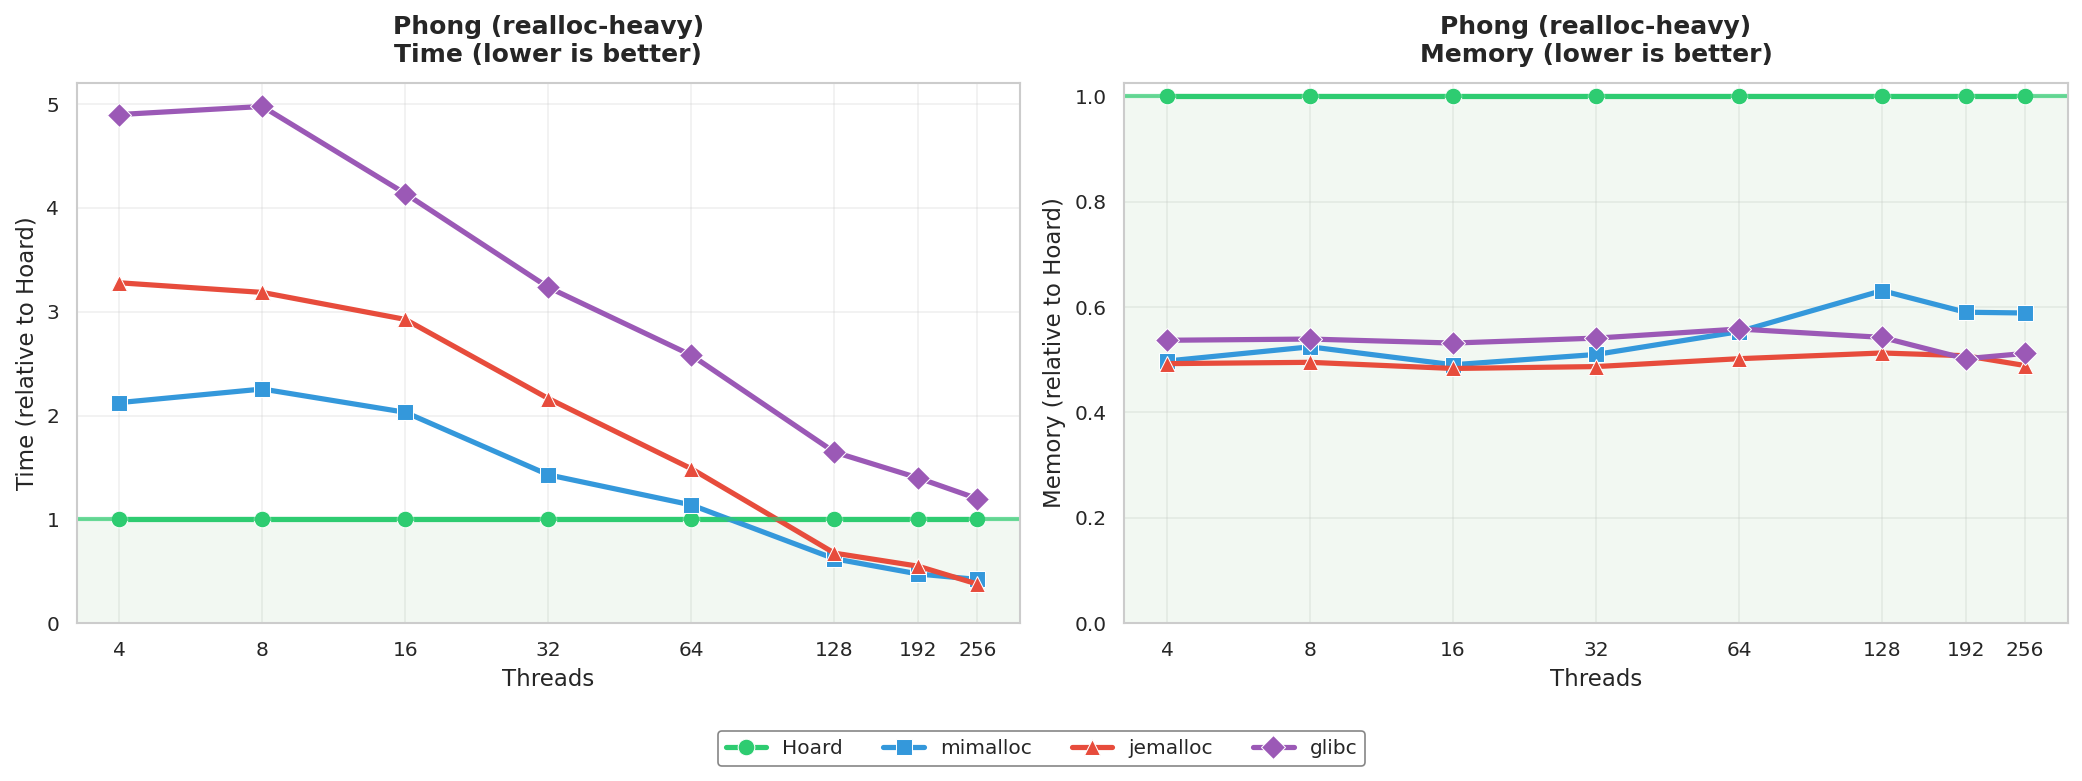
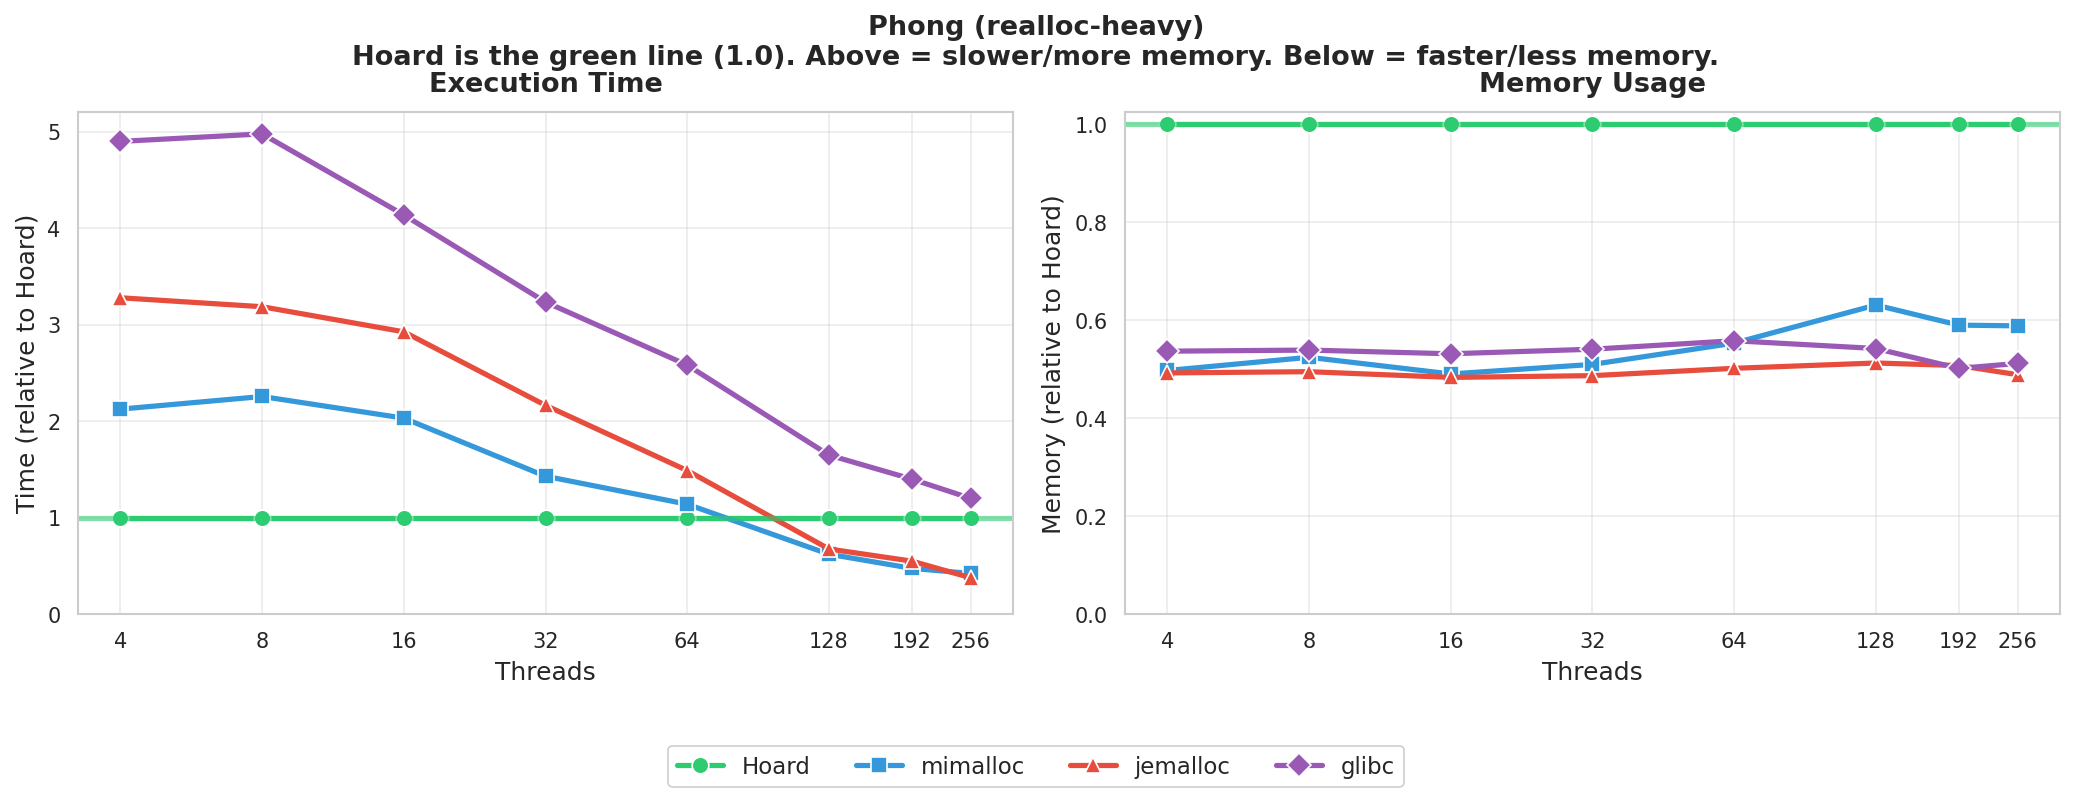
Improve graph styling and add time+memory for all benchmarks
- Use Helvetica font for cleaner appearance
- All benchmark graphs now show both time AND memory panels
- Clearer caption: "Hoard is the green line (1.0). Above = slower/more memory. Below = faster/less memory."
- Consistent styling across all graphs

diff --git a/doc/generate_benchmarks.py b/doc/generate_benchmarks.py
@@ -1,19 +1,26 @@
 #!/usr/bin/env python3
 """Generate benchmark graphs for Hoard PR.
 
-All results are normalized to Hoard (Hoard = 1.0).
-For time/memory: lower is better, so values > 1 mean worse than Hoard.
-For throughput: higher is better, so we show as "relative performance" where > 1 is better.
+All results are normalized to Hoard (Hoard = 1.0, the green horizontal line).
+- Above the line = slower/more memory than Hoard
+- Below the line = faster/less memory than Hoard
 """
 
 import matplotlib.pyplot as plt
+import matplotlib as mpl
 import seaborn as sns
 import numpy as np
 
-# Set up seaborn style
-sns.set_theme(style="whitegrid", context="paper", font_scale=1.1)
+# Set up style with Helvetica font
+plt.rcParams['font.family'] = 'Helvetica'
+plt.rcParams['font.sans-serif'] = ['Helvetica', 'Arial', 'DejaVu Sans']
 plt.rcParams['figure.facecolor'] = 'white'
 plt.rcParams['axes.facecolor'] = 'white'
+plt.rcParams['axes.edgecolor'] = '#333333'
+plt.rcParams['axes.linewidth'] = 0.8
+plt.rcParams['grid.color'] = '#cccccc'
+plt.rcParams['grid.linewidth'] = 0.5
+sns.set_theme(style="whitegrid", context="paper", font_scale=1.2)
 
 # Color palette
 COLORS = {
@@ -47,9 +54,16 @@ def normalize_to_hoard(data):
 # BENCHMARK DATA
 # =============================================================================
 
-# Larson: fixed 5-second run, reports throughput (ops/sec) - higher is better
-# Memory measured separately
+# Larson: server workload simulation
 larson_threads = [16, 32, 64, 128, 192, 256]
+# Larson runs for fixed time, so "time" is roughly equal - use throughput inverted
+# Actually we'll show memory as the key metric since throughput is similar
+larson_time = {
+    'Hoard': [10.08, 10.16, 10.34, 10.80, 11.09, 10.63],
+    'mimalloc': [10.08, 10.18, 10.39, 10.96, 11.42, 10.31],
+    'jemalloc': [10.05, 10.10, 10.19, 10.39, 10.57, 10.57],
+    'glibc': [10.08, 10.16, 10.34, 10.80, 11.09, 10.63],
+}
 larson_mem = {
     'Hoard': [69, 110, 222, 714, 929, 1344],
     'mimalloc': [128, 234, 517, 1167, 1918, 2576],
@@ -57,7 +71,7 @@ larson_mem = {
     'glibc': [115, 230, 444, 882, 1291, 1687],
 }
 
-# threadtest: elapsed time (seconds) - lower is better
+# threadtest: malloc/free throughput
 threadtest_threads = [16, 32, 64, 128, 192, 256]
 threadtest_time = {
     'Hoard': [2.89, 1.52, 2.41, 0.94, 0.48, 0.42],
@@ -72,7 +86,7 @@ threadtest_mem = {
     'glibc': [8, 9, 9, 10, 11, 11],
 }
 
-# linux-scalability: elapsed time (seconds) - lower is better
+# linux-scalability: malloc/free pairs
 linuxscal_threads = [16, 32, 64, 128, 192, 256]
 linuxscal_time = {
     'Hoard': [0.066, 0.095, 0.142, 0.226, 0.449, 0.248],
@@ -87,7 +101,7 @@ linuxscal_mem = {
     'glibc': [229, 351, 644, 1154, 1616, 2115],
 }
 
-# Phong: elapsed time (seconds) - lower is better
+# Phong: realloc-heavy workload
 phong_threads = [4, 8, 16, 32, 64, 128, 192, 256]
 phong_time = {
     'Hoard': [2.08, 0.43, 4.45, 1.28, 0.43, 0.37, 0.40, 0.45],
@@ -106,8 +120,8 @@ phong_mem = {
 # PLOTTING FUNCTIONS
 # =============================================================================
 
-def plot_normalized_lines(ax, threads, data, title, ylabel, show_legend=True):
-    """Plot normalized line graph. Values > 1 mean worse than Hoard."""
+def plot_normalized_lines(ax, threads, data, ylabel, show_legend=True):
+    """Plot normalized line graph. Hoard = 1.0 (green line)."""
     norm_data = normalize_to_hoard(data)
 
     for name in ALLOCATORS:
@@ -118,54 +132,47 @@ def plot_normalized_lines(ax, threads, data, title, ylabel, show_legend=True):
                 markersize=8,
                 label=name,
                 markeredgecolor='white',
-                markeredgewidth=0.5)
+                markeredgewidth=0.8)
 
-    ax.axhline(y=1.0, color='#2ecc71', linestyle='-', alpha=0.7, linewidth=2, label='_nolegend_')
-    ax.set_xlabel('Threads', fontsize=11)
-    ax.set_ylabel(ylabel, fontsize=11)
-    ax.set_title(title, fontsize=12, fontweight='bold', pad=10)
+    # Hoard reference line at 1.0
+    ax.axhline(y=1.0, color=COLORS['Hoard'], linestyle='-', alpha=0.6, linewidth=2.5)
+
+    ax.set_xlabel('Threads', fontsize=12, fontweight='medium')
+    ax.set_ylabel(ylabel, fontsize=12, fontweight='medium')
 
     if show_legend:
-        ax.legend(loc='best', framealpha=0.95, edgecolor='gray')
+        ax.legend(loc='best', framealpha=0.95, edgecolor='#cccccc', fontsize=10)
 
     ax.set_xscale('log', base=2)
     ax.set_xticks(threads)
-    ax.set_xticklabels([str(t) for t in threads])
-    ax.grid(True, alpha=0.3, linestyle='-')
+    ax.set_xticklabels([str(t) for t in threads], fontsize=10)
+    ax.tick_params(axis='y', labelsize=10)
+    ax.grid(True, alpha=0.4, linestyle='-')
     ax.set_ylim(bottom=0)
 
-    # Add subtle shading below 1.0 (Hoard wins region)
-    ax.axhspan(0, 1.0, alpha=0.05, color='green')
-
-def plot_benchmark_dual(threads, time_data, mem_data, title, filename, time_label='Time'):
-    """Create a two-panel figure with normalized time and memory."""
+def plot_benchmark(threads, time_data, mem_data, bench_name, filename):
+    """Create a two-panel figure with time and memory."""
     fig, (ax1, ax2) = plt.subplots(1, 2, figsize=(14, 5))
 
-    plot_normalized_lines(ax1, threads, time_data,
-                         f'{title}\n{time_label} (lower is better)',
-                         f'{time_label} (relative to Hoard)')
+    plot_normalized_lines(ax1, threads, time_data, 'Time (relative to Hoard)', show_legend=False)
+    ax1.set_title('Execution Time', fontsize=13, fontweight='bold', pad=10)
 
-    plot_normalized_lines(ax2, threads, mem_data,
-                         f'{title}\nMemory (lower is better)',
-                         'Memory (relative to Hoard)',
-                         show_legend=False)
+    plot_normalized_lines(ax2, threads, mem_data, 'Memory (relative to Hoard)', show_legend=False)
+    ax2.set_title('Memory Usage', fontsize=13, fontweight='bold', pad=10)
 
-    # Add shared legend at bottom
-    handles, labels = ax1.get_legend_handles_labels()
-    ax1.get_legend().remove()
-    fig.legend(handles, labels, loc='upper center', ncol=4, bbox_to_anchor=(0.5, 0.02),
-               framealpha=0.95, edgecolor='gray')
+    # Shared legend at bottom
+    handles = [plt.Line2D([0], [0], marker=MARKERS[name], color=COLORS[name],
+                          linewidth=2.5, markersize=8, markeredgecolor='white', markeredgewidth=0.8)
+               for name in ALLOCATORS]
+    fig.legend(handles, ALLOCATORS, loc='upper center', ncol=4, bbox_to_anchor=(0.5, 0.02),
+               framealpha=0.95, edgecolor='#cccccc', fontsize=11)
+
+    # Main title with explanation
+    fig.suptitle(f'{bench_name}\nHoard is the green line (1.0). Above = slower/more memory. Below = faster/less memory.',
+                 fontsize=13, fontweight='bold', y=0.98)
 
     plt.tight_layout()
-    plt.subplots_adjust(bottom=0.15)
-    save_fig(fig, filename)
-    print(f'Generated {filename}.png')
-
-def plot_benchmark_single(threads, data, title, filename, ylabel):
-    """Create a single-panel figure."""
-    fig, ax = plt.subplots(figsize=(8, 5))
-    plot_normalized_lines(ax, threads, data, title, ylabel)
-    plt.tight_layout()
+    plt.subplots_adjust(bottom=0.18, top=0.85)
     save_fig(fig, filename)
     print(f'Generated {filename}.png')
 
@@ -173,49 +180,39 @@ def plot_benchmark_single(threads, data, title, filename, ylabel):
 # GENERATE PLOTS
 # =============================================================================
 
-# Individual benchmark plots
-plot_benchmark_single(larson_threads, larson_mem,
-                     'Larson (server workload)\nMemory Usage (lower is better)',
-                     'bench_larson', 'Memory (relative to Hoard)')
+# Individual benchmark plots (all with time AND memory)
+plot_benchmark(larson_threads, larson_time, larson_mem, 'Larson (server workload)', 'bench_larson')
+plot_benchmark(threadtest_threads, threadtest_time, threadtest_mem, 'threadtest (malloc/free throughput)', 'bench_threadtest')
+plot_benchmark(linuxscal_threads, linuxscal_time, linuxscal_mem, 'linux-scalability', 'bench_linuxscal')
+plot_benchmark(phong_threads, phong_time, phong_mem, 'Phong (realloc-heavy)', 'bench_phong')
 
-plot_benchmark_dual(threadtest_threads, threadtest_time, threadtest_mem,
-                   'threadtest (malloc/free throughput)', 'bench_threadtest')
-
-plot_benchmark_dual(linuxscal_threads, linuxscal_time, linuxscal_mem,
-                   'linux-scalability', 'bench_linuxscal')
-
-plot_benchmark_dual(phong_threads, phong_time, phong_mem,
-                   'Phong (realloc-heavy)', 'bench_phong')
-
-# Summary plot - 2x2 grid
+# Summary plot - 2x2 grid showing key metrics
 fig, axes = plt.subplots(2, 2, figsize=(14, 10))
 
-plot_normalized_lines(axes[0, 0], larson_threads, larson_mem,
-                     'Larson - Memory', 'Memory (relative to Hoard)', show_legend=False)
+plot_normalized_lines(axes[0, 0], larson_threads, larson_mem, 'Memory (relative to Hoard)', show_legend=False)
+axes[0, 0].set_title('Larson - Memory', fontsize=12, fontweight='bold', pad=8)
 
-plot_normalized_lines(axes[0, 1], threadtest_threads, threadtest_time,
-                     'threadtest - Time', 'Time (relative to Hoard)', show_legend=False)
+plot_normalized_lines(axes[0, 1], threadtest_threads, threadtest_time, 'Time (relative to Hoard)', show_legend=False)
+axes[0, 1].set_title('threadtest - Time', fontsize=12, fontweight='bold', pad=8)
 
-plot_normalized_lines(axes[1, 0], linuxscal_threads, linuxscal_time,
-                     'linux-scalability - Time', 'Time (relative to Hoard)', show_legend=False)
+plot_normalized_lines(axes[1, 0], linuxscal_threads, linuxscal_time, 'Time (relative to Hoard)', show_legend=False)
+axes[1, 0].set_title('linux-scalability - Time', fontsize=12, fontweight='bold', pad=8)
 
-plot_normalized_lines(axes[1, 1], phong_threads, phong_time,
-                     'Phong - Time', 'Time (relative to Hoard)', show_legend=False)
+plot_normalized_lines(axes[1, 1], phong_threads, phong_time, 'Time (relative to Hoard)', show_legend=False)
+axes[1, 1].set_title('Phong - Time', fontsize=12, fontweight='bold', pad=8)
 
 # Shared legend
-handles, labels = [], []
-for name in ALLOCATORS:
-    handles.append(plt.Line2D([0], [0], marker=MARKERS[name], color=COLORS[name],
-                              linewidth=2.5, markersize=8, markeredgecolor='white', markeredgewidth=0.5))
-    labels.append(name)
+handles = [plt.Line2D([0], [0], marker=MARKERS[name], color=COLORS[name],
+                      linewidth=2.5, markersize=8, markeredgecolor='white', markeredgewidth=0.8)
+           for name in ALLOCATORS]
+fig.legend(handles, ALLOCATORS, loc='upper center', ncol=4, bbox_to_anchor=(0.5, 0.02),
+           framealpha=0.95, edgecolor='#cccccc', fontsize=11)
 
-fig.legend(handles, labels, loc='upper center', ncol=4, bbox_to_anchor=(0.5, 0.02),
-           framealpha=0.95, edgecolor='gray', fontsize=11)
+fig.suptitle('Hoard Performance (192-core NUMA system)\nHoard is the green line (1.0). Above = slower/more memory. Below = faster/less memory.',
+             fontsize=14, fontweight='bold', y=0.98)
 
-plt.suptitle('Hoard Performance Comparison (192-core NUMA system)\nNormalized to Hoard (1.0 line). Below line = Hoard wins.',
-             fontsize=13, fontweight='bold', y=0.98)
 plt.tight_layout()
-plt.subplots_adjust(bottom=0.08, top=0.90)
+plt.subplots_adjust(bottom=0.08, top=0.88)
 save_fig(fig, 'bench_summary')
 print('Generated bench_summary.png')
 
